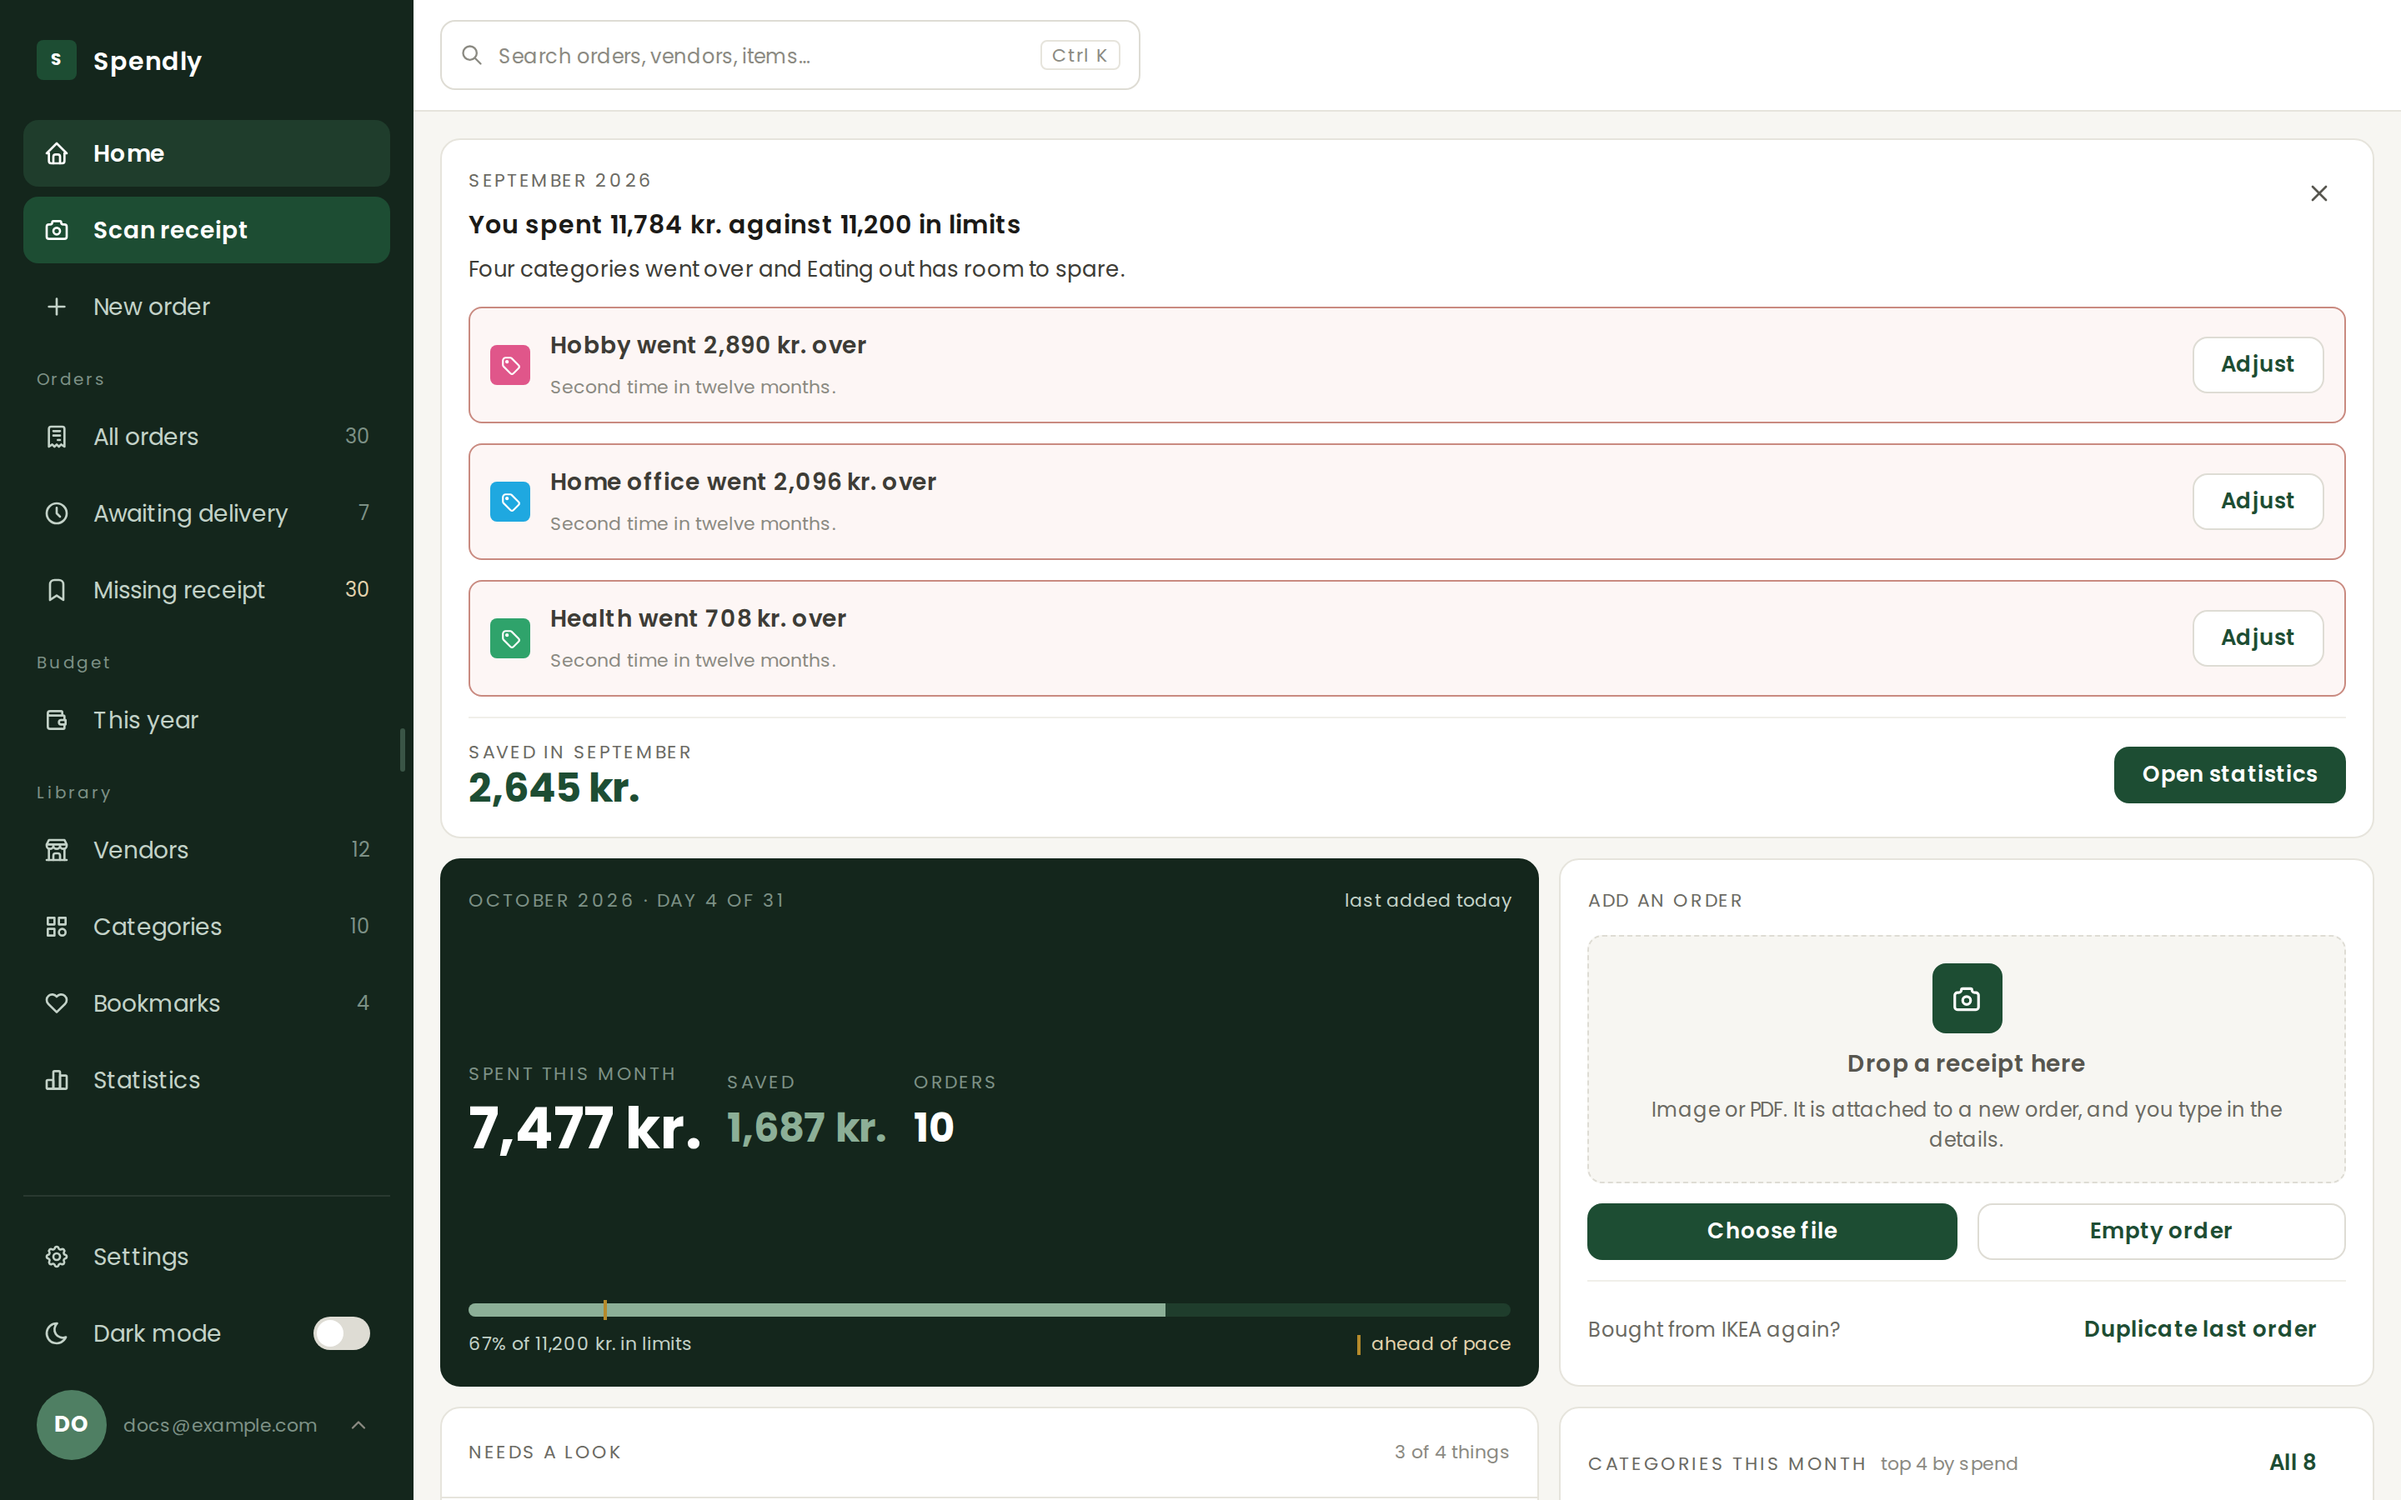
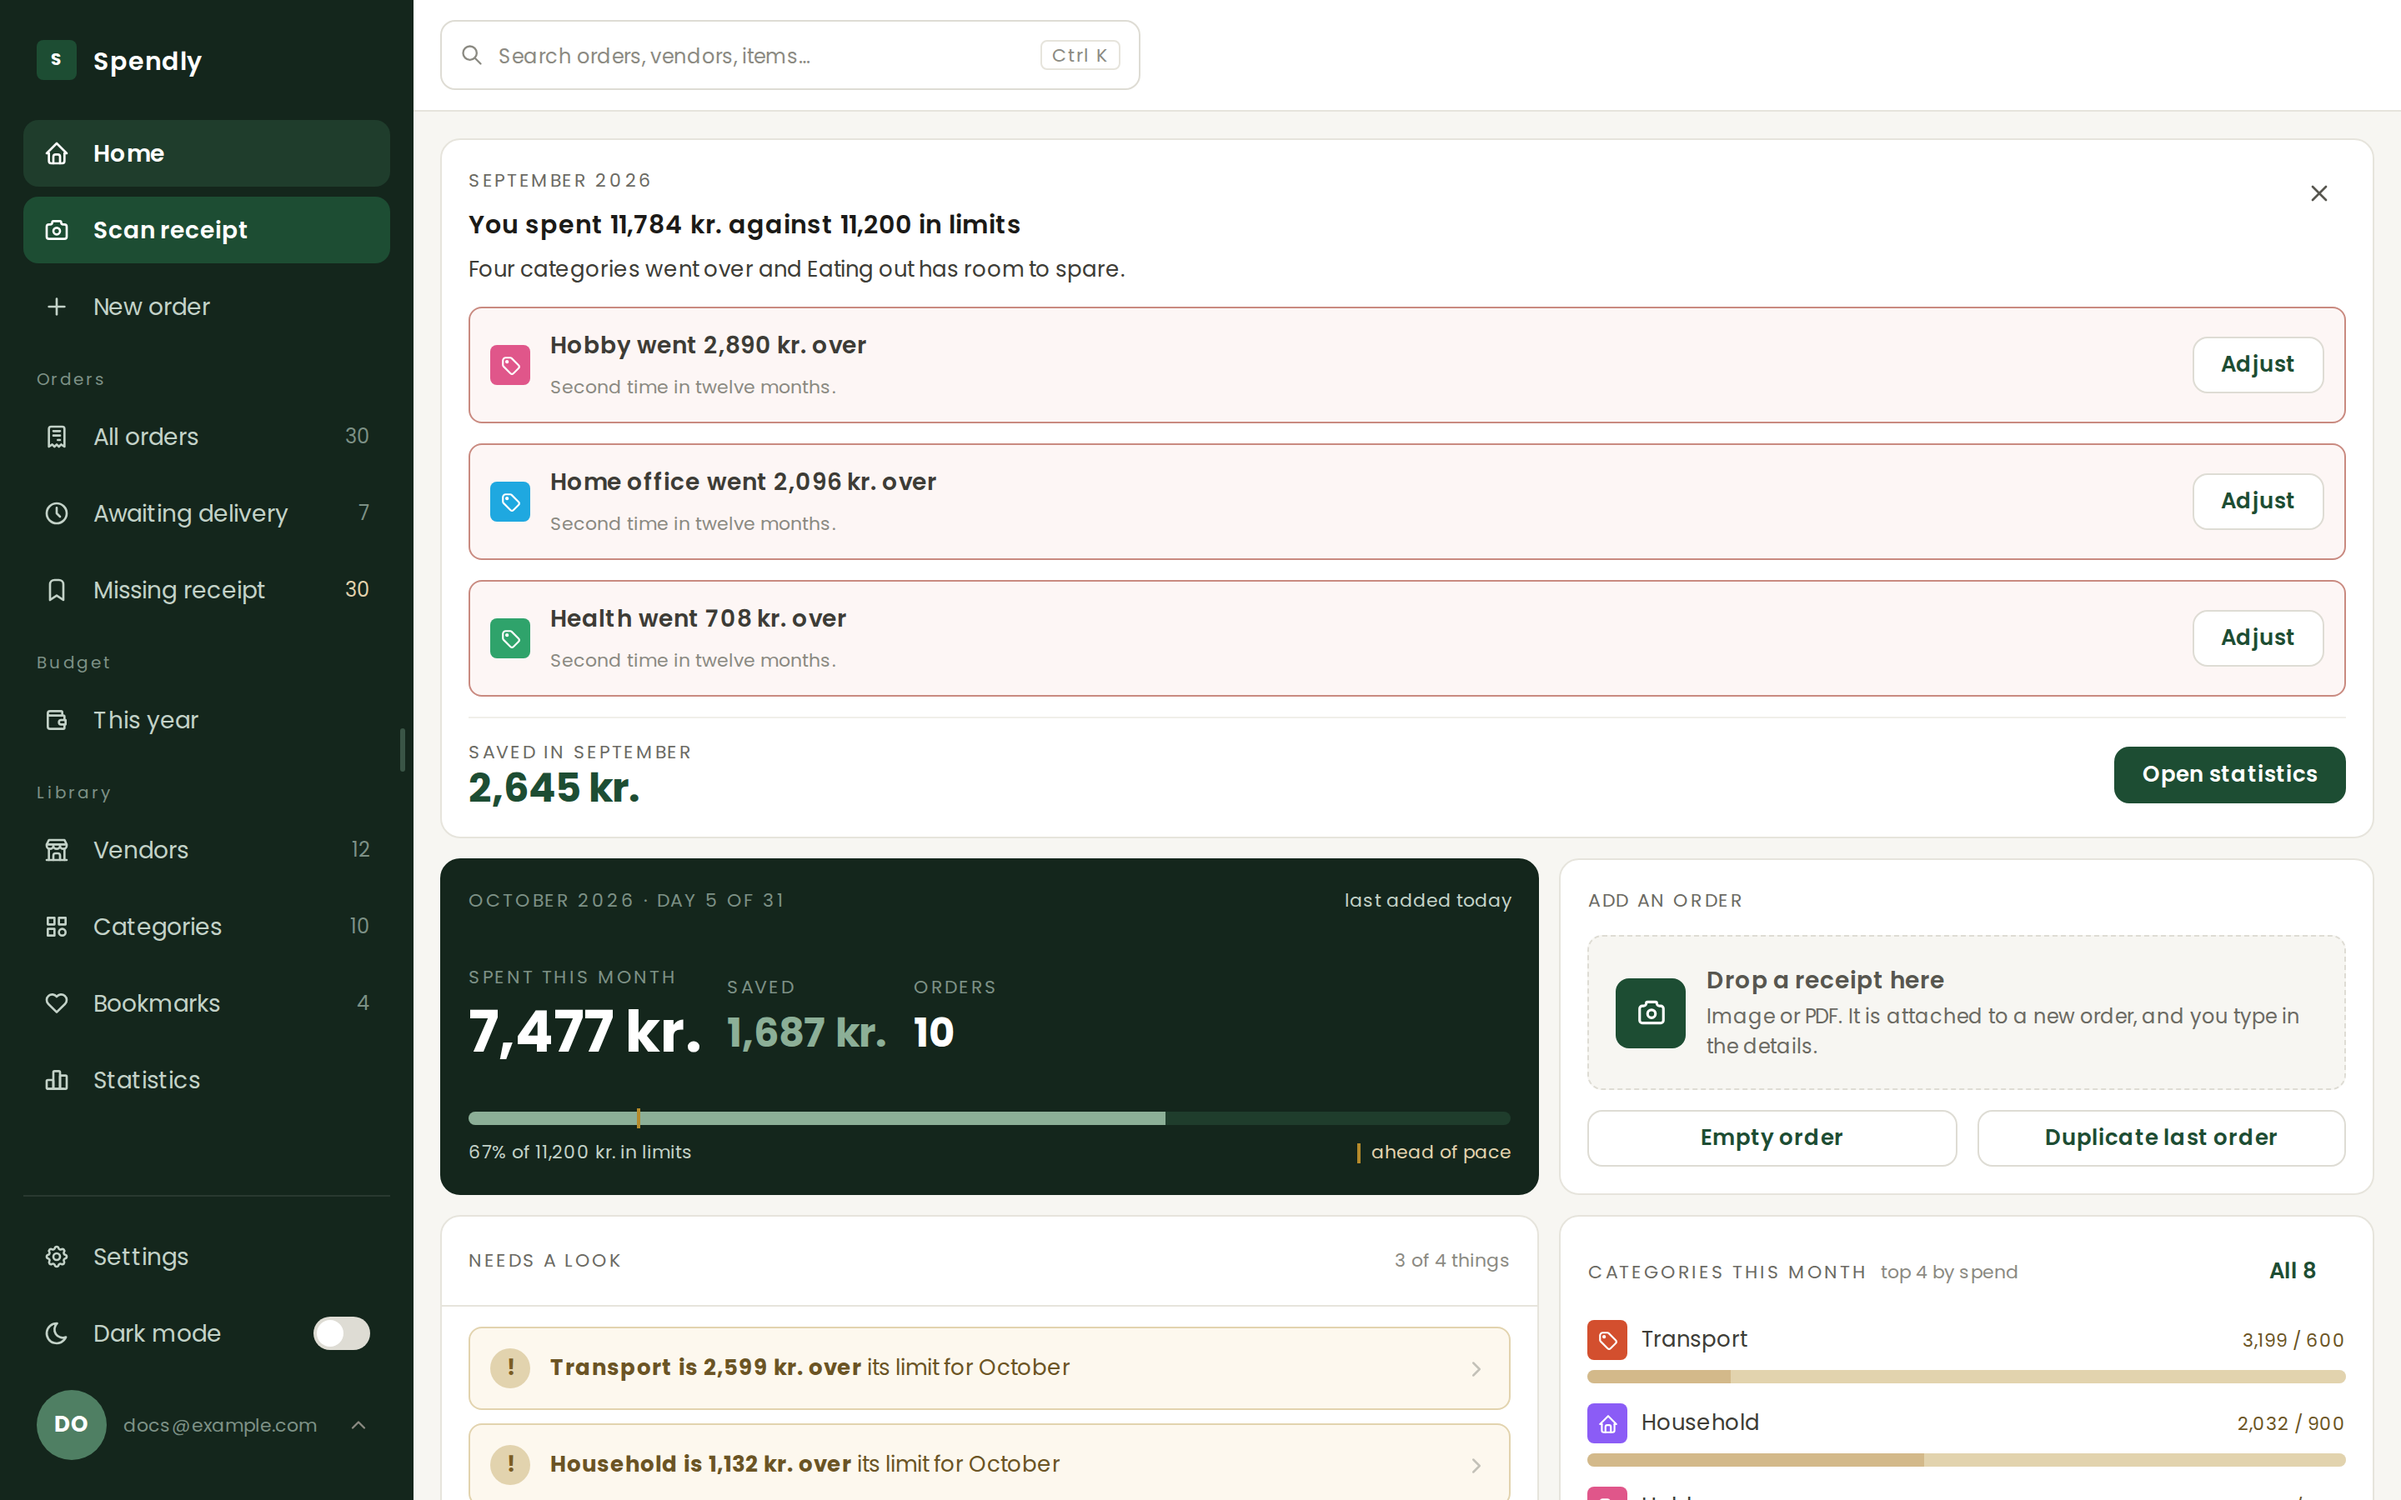
Home: the Add an order card follows the new design (#376)
* Home's Add an order card lays the receipt drop on its side; Duplicate last order sits beside Empty order

* Render the Home screenshot again with the new Add an order card

---------

Changed region(s): [[0.1562, 0.6222, 0.9688, 1.0], [0.1875, 0.9644, 0.4375, 0.9956], [0.5938, 0.9644, 0.625, 0.9956]]

diff --git a/react/src/pages/Home.jsx b/react/src/pages/Home.jsx
@@ -1,4 +1,4 @@
-import { useId, useState } from 'react'
+import { useState } from 'react'
 import { Link, useNavigate } from 'react-router'
 import { Failed } from '../components/Failed.jsx'
 import { Card, CardBody, Toolbar } from '../components/Card.jsx'
@@ -508,36 +508,27 @@ function OrderHead({ order }) {
 
 function CaptureCard({ newest, loading }) {
 	const navigate = useNavigate()
-	const input = useId()
 	const user = useApi(getCurrentUser).data
 	const reads = user?.scanAiEnabled
 	// the server takes no receipt before the email is confirmed, so the zone says so first (20b)
 	const held = user?.emailConfirmed === false
 	const take = files => { if (files?.[0]) navigate('/orders/new?source=scan', { state: { file: files[0], from: '/' } }) }
-	const footer = newest
-		? [
-			<span className="sp-subtitle sp-grow" key="ask">Bought from {newest.vendor?.name} again?</span>,
-			<Button variant="text" size="small" to={`/orders/new?duplicate=${newest.id}`} key="copy">Duplicate last order</Button>
-		]
-		: loading
-			? [
-				<span className="sp-subtitle sp-grow hm-line" key="ask"><Skeleton shape="line" data-w="130" data-h="13" /></span>,
-				<ButtonSkeleton label="Duplicate last order" key="copy" />
-			]
-			: undefined
+	const copy = newest
+		? <Button variant="outline" size="small" to={`/orders/new?duplicate=${newest.id}`}>Duplicate last order</Button>
+		: loading ? <ButtonSkeleton label="Duplicate last order" /> : null
 	return (
-		<Card footer={footer}>
+		<Card>
 			<span className="sp-section-label">Add an order</span>
 			{held
 				? (
-					<FileDrop disabled>
+					<FileDrop disabled row>
 						<Mark size="medium" fill="solid" aria-hidden="true" aria-label="Receipt"><Icon name="camera" size={19} /></Mark>
 						<span className="sp-title sp-ink-2">Capture a receipt</span>
 						<span className="sp-meta">Available once your email is confirmed</span>
 					</FileDrop>
 				)
 				: (
-					<FileDrop id={input} accept={FILE_TYPES} onFiles={take}>
+					<FileDrop accept={FILE_TYPES} onFiles={take} row>
 						<Mark size="medium" fill="solid" aria-hidden="true" aria-label="Receipt"><Icon name="camera" size={19} /></Mark>
 						<span className="sp-title">Drop a receipt here</span>
 						<span className="sp-subtitle">
@@ -548,8 +539,8 @@ function CaptureCard({ newest, loading }) {
 					</FileDrop>
 				)}
 			<div className="sp-fields">
-				<Button size="small" disabled={held} onClick={() => document.getElementById(input)?.click()}>Choose file</Button>
 				<Button variant="outline" size="small" to="/orders/new?source=empty">Empty order</Button>
+				{copy}
 			</div>
 		</Card>
 	)

diff --git a/react/src/components/FileDrop.jsx b/react/src/components/FileDrop.jsx
@@ -54,10 +54,11 @@ export function fileProblem(file, accept = FILE_TYPES, maxMb = MAX_FILE_MB) {
 	return null
 }
 
-/** `action` is the button-shaped words inside the zone (3a); `grow` takes the room left in its row (10a).
+/** `action` is the button-shaped words inside the zone (3a); `grow` takes the room left in its row (10a);
+    `row` lays the zone on its side, the mark at the left and its lines beside it (c4).
     `onFiles(files, problems)`: each file chosen or dropped, and why it cannot be taken (`sniffedProblem`) or null.
     `disabled` draws the zone muted with no file input (20b); its children say why. */
-export function FileDrop({ icon, children, accept, multiple = false, maxMb = MAX_FILE_MB, onFiles, action, grow = false, disabled = false, id, ...rest }) {
+export function FileDrop({ icon, children, accept, multiple = false, maxMb = MAX_FILE_MB, onFiles, action, grow = false, row = false, disabled = false, id, ...rest }) {
 	reject(rest, 'FileDrop')
 	const field = useRef(null)
 	const take = async list => {
@@ -66,7 +67,7 @@ export function FileDrop({ icon, children, accept, multiple = false, maxMb = MAX
 	}
 	usePastePlace(field, file => take([file]))
 	if (disabled) return (
-		<div className={join('sp-filedrop', grow && 'sp-grow', 'sp-muted')} aria-disabled="true" {...rest}>
+		<div className={join('sp-filedrop', row && 'sp-filedrop--row', grow && 'sp-grow', 'sp-muted')} aria-disabled="true" {...rest}>
 			{icon ? <Icon name={icon} /> : null}
 			{children}
 		</div>
@@ -78,7 +79,7 @@ export function FileDrop({ icon, children, accept, multiple = false, maxMb = MAX
 		}
 		: {}
 	return (
-		<label className={join('sp-filedrop', grow && 'sp-grow')} {...dropping} {...rest}>
+		<label className={join('sp-filedrop', row && 'sp-filedrop--row', grow && 'sp-grow')} {...dropping} {...rest}>
 			{icon ? <Icon name={icon} /> : null}
 			{children}
 			{action ? <span className="sp-btn sp-btn--small">{action}</span> : null}

diff --git a/react/src/styles/components.css b/react/src/styles/components.css
@@ -1624,6 +1624,19 @@ label.sp-option--swatch[aria-pressed="true"]:has(:focus-visible) {
 }
 .sp-filedrop:hover,
 .sp-filedrop:focus-within { border-color: var(--green); background: var(--green-tint-2); }
+/* the same drop laid on its side: the mark at the left, the two lines beside it, for a
+   card where the stacked drop is taller than its content needs */
+.sp-filedrop--row {
+  display: grid;
+  grid-template-columns: auto minmax(0, 1fr);
+  align-items: center;
+  column-gap: var(--sp-12);
+  row-gap: var(--sp-2);
+  text-align: left;
+}
+.sp-filedrop--row > .sp-mark { grid-row: span 2; }
+.sp-filedrop--row > .sp-title { align-self: end; }
+.sp-filedrop--row > .sp-subtitle { align-self: start; }
 .sp-filedrop input[type="file"] {
   position: absolute;
   width: 1px;
